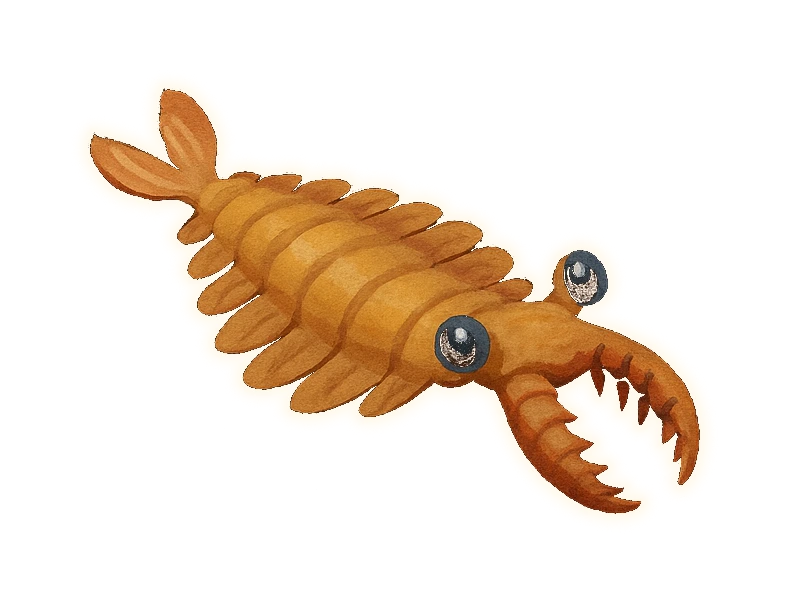
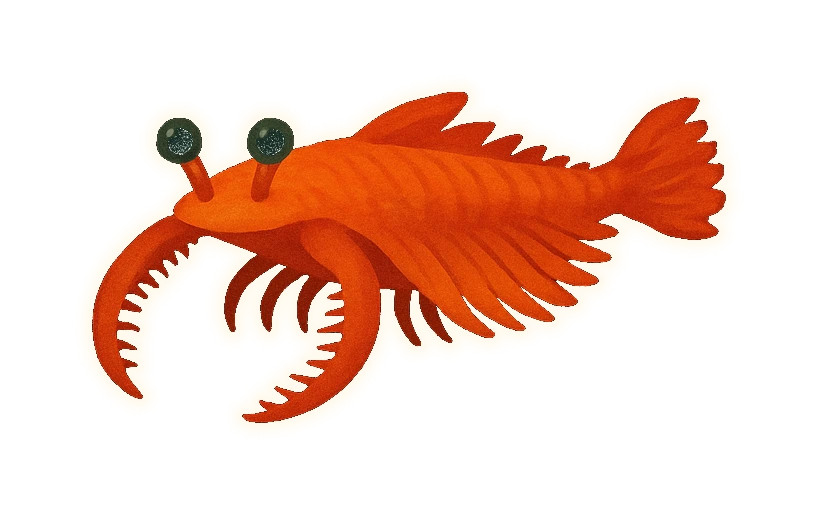
Second paid batch: 5 more subjects verified, 4 sent back
Three generations, $0.67. Nine subjects had analogy and negative written, so
nine were drawn: two sheets at 1536x1024 (§14's decided size) and Chicxulub as
a planet single.

Shipping (art.json 9 -> 13): Anomalocaris, the calving iceberg, the oxygen
bubbles, the rust slab. Anomalocaris is the redo that worked — the pincers and
jaws its first round drew are gone, and the frontal appendages are segmented
and spiny against the reference.

Sent back, each against a real reference:
  tiktaalik   — drew a four-legged animal on toed feet, twice now
  rodinia     — drew the modern African continent, with Madagascar
  phytosaur   — drew a short-snouted crocodile with terminal nostrils, when
                the whole point of a phytosaur is that its nostrils are on a
                mound between the eyes
  chicxulub   — drew the modern world again: Panama joined, no Western
                Interior Seaway, a wide Atlantic

And one that the gate could not catch. The acid-rain rock measures 8.67:1 and
still cannot ship: §11 says a near-black region is punched out of the artwork
by the luminance key, and states it of the planet discs — it is true of every
cut-out. It was the first dark subject drawn, its pits keyed to alpha 0, and
haloRings then filled those interior holes with the light halo. It bakes as a
white-speckled golf ball. A hole full of halo is exactly what the gate measures
FOR at the outer boundary, so the gate reads it as a pass. The remedy is the
[…]

diff --git a/scripts/bake-art.ts b/scripts/bake-art.ts
@@ -51,13 +51,32 @@ const ART_JSON = join(ROOT, 'src', 'data', 'art.json');
  * from art.json. The reason lives on the arrival's own `negative` field in
  * timeline.json (redo instructions), not duplicated here.
  */
-const NOT_VERIFIED = new Set(['chicxulub', 'tiktaalik', 'burgess-shale']);
+const NOT_VERIFIED = new Set([
+  'chicxulub',
+  'tiktaalik',
+  'rodinia',
+  'triassic-jurassic-extinction',
+  // Passes the 3:1 gate at 8.67:1 and still cannot ship: §11 says a near-black
+  // region is punched out of the artwork by the luminance key, and states it
+  // of the planet discs. It is true of EVERY cut-out. The acid-rain rock was
+  // the first dark subject drawn, its pits keyed to alpha 0, and `haloRings`
+  // then filled those interior holes with the light halo — it bakes as a
+  // white-speckled golf ball. The gate cannot see this, because a hole full of
+  // halo is exactly what the gate is measuring for at the OUTER boundary. The
+  // remedy is §11's: the art is revised, lighter, with no black in it.
+  'steam-and-acid-rain',
+]);
 
 interface ManifestEntry {
   /** Relative to project root. */
   file: string;
-  /** Arrival ids, reading order: top-left, top-right, bottom-left, bottom-right. */
-  quadrants: [string, string, string, string];
+  /**
+   * Arrival ids. Four ids = a 2×2 sheet, reading order (top-left, top-right,
+   * bottom-left, bottom-right). One id = the whole image is that subject,
+   * which is how the planet singles arrive (§11: a planet is one 1024×1024
+   * generation, not a quadrant of a sheet). An empty string skips a quadrant.
+   */
+  quadrants: string[];
   /** True for the four planet portraits (§11): whole-disc subject, square crop, no rim trim. */
   isPlanet: boolean;
 }
@@ -68,8 +87,11 @@ const MANIFEST: ManifestEntry[] = [
     // usable as-is; promoted from .scratch/art-proof/ into art/source/. This
     // run validates the pipeline against real, final, already-paid-for art
     // instead of spending anything new.
+    // Chicxulub's quadrant is dropped: §11 requires Late Cretaceous
+    // palaeogeography and this proof drew the modern world, so it is redone as
+    // a single below rather than re-cut from here.
     file: 'art/source/planet-sheet-01.png',
-    quadrants: ['earth-full-size', 'great-oxidation-begins', 'snowball-earth', 'chicxulub'],
+    quadrants: ['earth-full-size', 'great-oxidation-begins', 'snowball-earth', ''],
     isPlanet: true,
   },
   {
@@ -77,7 +99,7 @@ const MANIFEST: ManifestEntry[] = [
     // 3 of 4 verified; Tiktaalik drew as a fully-legged salamander despite the
     // negative and needs a redo (see its `negative` field in timeline.json).
     file: 'art/source/sheet-02-tiktaalik-archaeopteryx-stromatolite-dimetrodon.png',
-    quadrants: ['tiktaalik', 'archaeopteryx', 'stromatolites', 'dimetrodon'],
+    quadrants: ['', 'archaeopteryx', 'stromatolites', 'dimetrodon'],
     isPlanet: false,
   },
   {
@@ -85,8 +107,38 @@ const MANIFEST: ManifestEntry[] = [
     // lobster pincers and a jawed mouth despite the negative — needs a redo
     // (see burgess-shale's `negative` field in timeline.json).
     file: 'art/source/sheet-03-anomalocaris-charnia-cooksonia-dragonfly.png',
-    quadrants: ['burgess-shale', 'charnia', 'cooksonia', 'coal-forests'],
+    quadrants: ['', 'charnia', 'cooksonia', 'coal-forests'],
     isPlanet: false,
+  },
+  {
+    // Sheet 4, 2026-07-31, approved batch. Anomalocaris redrawn here and it
+    // verified — the pincers and jaws the first round drew are gone — so this
+    // sheet supersedes sheet-03's quadrant for burgess-shale. Tiktaalik drew
+    // toed feet again and Rodinia drew modern Africa; both need a redo (see
+    // their `negative` fields in timeline.json).
+    file: 'art/source/sheet-04-tiktaalik-anomalocaris-rodinia-iceberg.png',
+    quadrants: ['tiktaalik', 'burgess-shale', 'rodinia', 'antarctica-freezes'],
+    isPlanet: false,
+  },
+  {
+    // Sheet 5, 2026-07-31, approved batch. 3 of 4 verified; the phytosaur drew
+    // as a modern crocodile — short broad snout, nostrils at the snout tip —
+    // which is the one thing its negative named.
+    file: 'art/source/sheet-05-acid-rain-whiffs-goe-phytosaur.png',
+    quadrants: [
+      'steam-and-acid-rain',
+      'whiffs-of-oxygen',
+      'great-oxidation-ends',
+      'triassic-jurassic-extinction',
+    ],
+    isPlanet: false,
+  },
+  {
+    // Chicxulub, 2026-07-31 — a planet single, not a sheet quadrant. Second
+    // round, and it drew the modern world again. Excluded.
+    file: 'art/source/planet-chicxulub.png',
+    quadrants: ['chicxulub'],
+    isPlanet: true,
   },
 ];
 
@@ -132,7 +184,7 @@ function dwellFieldSamples(id: string): RGB[] {
 async function bakeSheetInPage(
   args: {
     dataUrl: string;
-    quadrants: [string, string, string, string];
+    quadrants: string[];
     isPlanetBySubject: Record<string, boolean>;
     fieldSamplesBySubject: Record<string, [number, number, number][]>;
     strength: number;
@@ -398,18 +450,23 @@ async function bakeSheetInPage(
   return load(args.dataUrl).then(async (img) => {
     // Read the sheet's own dimensions rather than trusting a passed-in size —
     // correct for both the square proofs (1024×1024) and the rectangular
-    // production sheets (1536×1024, §14's decided size).
-    const halfW = img.naturalWidth / 2;
-    const halfH = img.naturalHeight / 2;
-    const boxes: [number, number][] = [[0, 0], [halfW, 0], [0, halfH], [halfW, halfH]];
+    // production sheets (1536×1024, §14's decided size). A one-id entry is a
+    // single subject filling the whole image (the planet singles), so its one
+    // "quadrant" is the full frame.
+    const single = args.quadrants.length === 1;
+    const cw = single ? img.naturalWidth : img.naturalWidth / 2;
+    const ch = single ? img.naturalHeight : img.naturalHeight / 2;
+    const boxes: [number, number][] = single
+      ? [[0, 0]]
+      : [[0, 0], [cw, 0], [0, ch], [cw, ch]];
     const results: Record<string, any> = {};
-    for (let i = 0; i < 4; i++) {
+    for (let i = 0; i < boxes.length; i++) {
       const id = args.quadrants[i]!;
       if (!id) continue;
       const q = document.createElement('canvas');
-      q.width = halfW;
-      q.height = halfH;
-      q.getContext('2d')!.drawImage(img, boxes[i]![0], boxes[i]![1], halfW, halfH, 0, 0, halfW, halfH);
+      q.width = cw;
+      q.height = ch;
+      q.getContext('2d')!.drawImage(img, boxes[i]![0], boxes[i]![1], cw, ch, 0, 0, cw, ch);
       const keyed = keyToAlpha(q);
       const isPlanet = args.isPlanetBySubject[id];
       const subject = isPlanet ? keyed : trim(keyed, 0.02);
